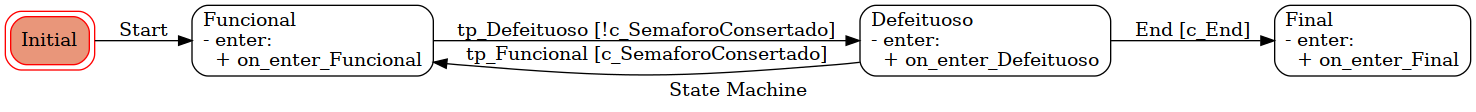
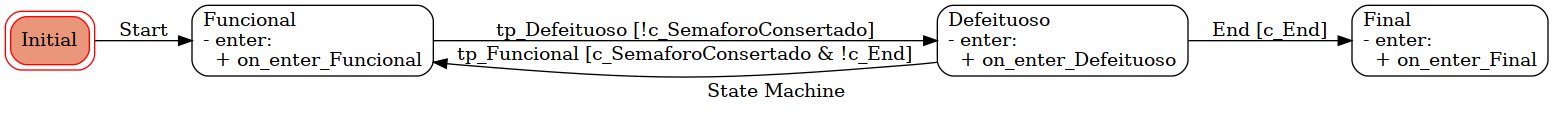
Correção condição

diff --git a/python-statemachine/psmManutencao.py b/python-statemachine/psmManutencao.py
@@ -2,7 +2,7 @@ import random, time, sys
 from statemachine import State, StateMachine
 from psmSemaforo import *
 ####################### Parameters #######################   
-MAX_CICLOS = 300
+MAX_CICLOS = 3
 
 class ManutencaoSemaforo(StateMachine):
 ####################### States Declaration #######################   
@@ -13,7 +13,7 @@ class ManutencaoSemaforo(StateMachine):
 
 ####################### Transitions Statement  #######################  
     Start = Initial.to(Funcional)
-    tp_Funcional = Defeituoso.to(Funcional, cond="c_SemaforoConsertado")
+    tp_Funcional = Defeituoso.to(Funcional, cond="c_SemaforoConsertado", unless="c_End")
     tp_Defeituoso = Funcional.to(Defeituoso, unless="c_SemaforoConsertado")
     End = Defeituoso.to(Final, cond="c_End")
 
@@ -37,6 +37,7 @@ class ManutencaoSemaforo(StateMachine):
 ####################### On_enter States ####################### 
     def on_enter_Final(self):
         print("\nEsse semáforo foi desativado devido aos muitos problemas.")
+        self._graph().write_png("python-statemachine/psmManutencao.png")
    
     def on_enter_Defeituoso(self):
         print('\nO Semáforo está apresentando muitos defeitos. Uma equipe foi chamada para manutenção.')

diff --git a/Pytransitions/PytransManutencao.py b/Pytransitions/PytransManutencao.py
@@ -12,7 +12,7 @@ class ManutencaoSemaforo(GraphMachine):
 ####################### Transitions Statement  #######################  
     transitions = [
         {'trigger': 'Start', 'source': 'Initial', 'dest': 'Funcional'},
-        {'trigger': 'tp_Funcional', 'source': 'Defeituoso', 'dest': 'Funcional', 'conditions': 'c_SemaforoConsertado'},
+        {'trigger': 'tp_Funcional', 'source': 'Defeituoso', 'dest': 'Funcional', 'conditions': 'c_SemaforoConsertado', 'unless': 'c_End'},
         {'trigger': 'tp_Defeituoso', 'source': 'Funcional', 'dest': 'Defeituoso', 'unless': 'c_SemaforoConsertado'},
         {'trigger': 'End', 'source': 'Defeituoso', 'dest': 'Final', 'conditions': 'c_End'}
     ]
